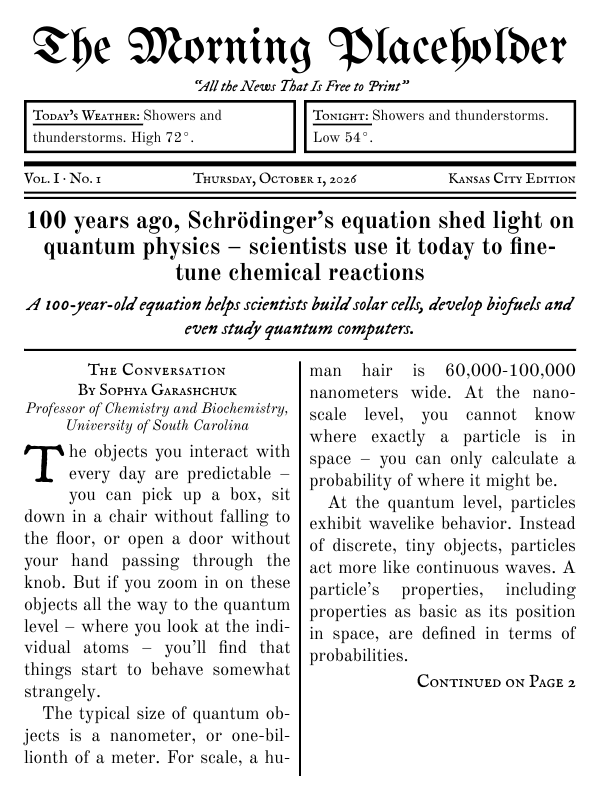
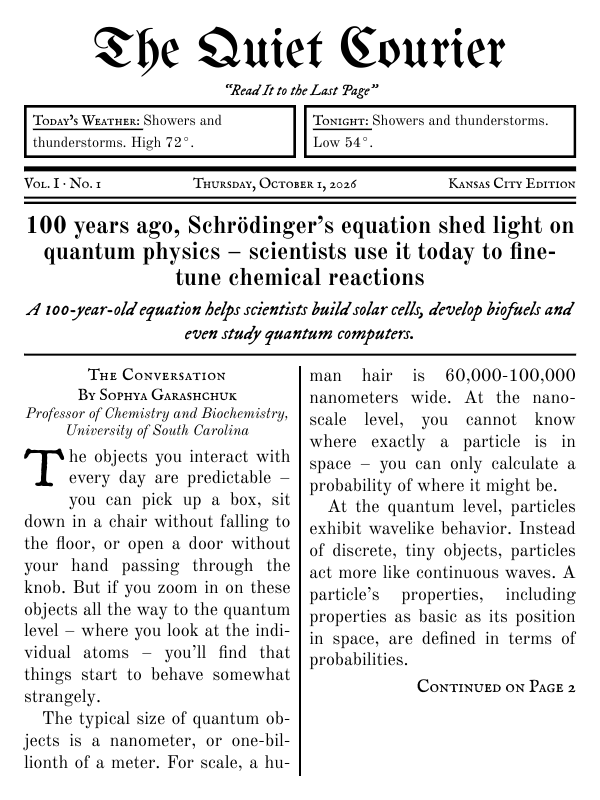
Name the paper The Quiet Courier
Replace the placeholder name and the motto, which echoed a real
paper's slogan.

Changed region(s): [[0.03, 0.0312, 0.96, 0.9688], [0.69, 0.8438, 0.96, 0.875]]

diff --git a/pipeline/tests/test_layout.py b/pipeline/tests/test_layout.py
@@ -42,6 +42,6 @@ def test_dropcap_escapes_and_keeps_quote():
 
 def test_nameplate_shrinks_for_long_names():
     short = fit_font_size("The Gazette", 300, 46)
-    long = fit_font_size("The Morning Placeholder of Greater Kansas City", 300, 46)
+    long = fit_font_size("The Quiet Courier of Greater Kansas City and Environs", 300, 46)
     assert short == 46
     assert long < 20

diff --git a/README.md b/README.md
@@ -1,8 +1,8 @@
-# Broadsheet
+# The Quiet Courier
 
 A daily newspaper for e-ink readers, laid out like an early-1900s broadsheet. Every article is written by people and is either public domain or openly licensed.
 
-The paper's name is a placeholder ("The Morning Placeholder") until a real one is chosen. It is set in one place: `paper_name` in the edition data.
+The name and motto are set in the edition data (`paper_name`, `motto`), so custom editions can carry a different masthead.
 
 ## Status
 
